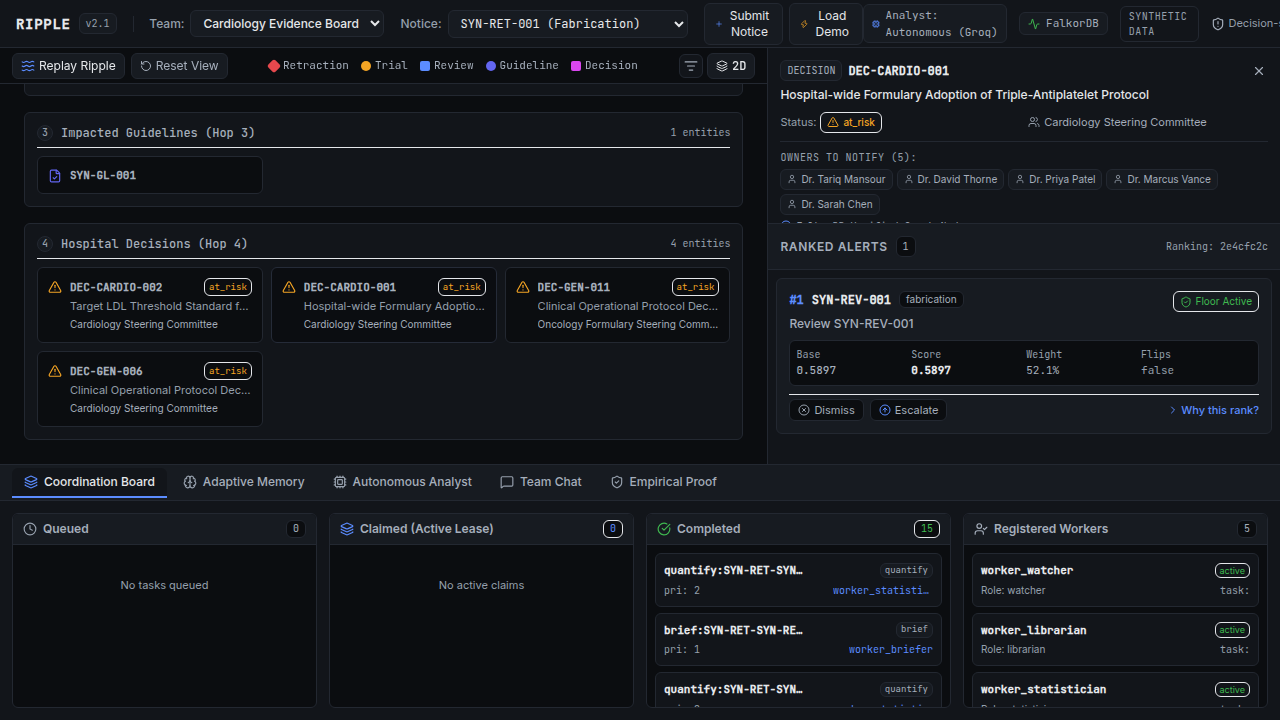
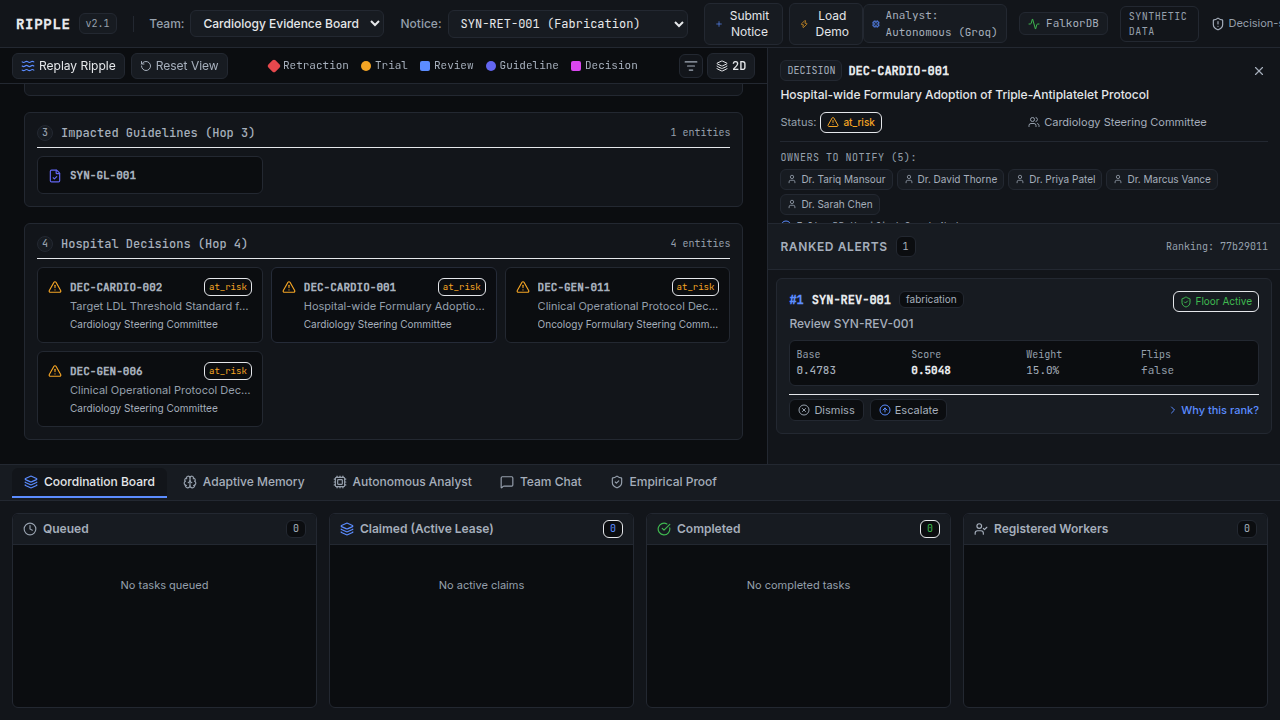
fix(demo): bind demo scenario impact directly to active retraction to prevent background task overwrite

diff --git a/api.py b/api.py
@@ -312,15 +312,8 @@ def load_demo_scenario(tenant: str, retraction_id: str = "SYN-RET-001"):
         })
         tr = tracer.handle({"retraction_id": adm_ret_id, "reason_category": "administrative"})
         for r in tr["affected_reviews"]:
-            stat.handle({"retraction_id": adm_ret_id, "review_id": r, "reason_category": "administrative"})
+            stat.handle({"retraction_id": retraction_id, "review_id": r, "reason_category": "administrative"})
         briefer.handle({"retraction_id": adm_ret_id})
-
-        # Also link impact to current retraction_id so they appear in current view
-        knowledge.graph.query(
-            "MATCH (imp:Impact {id: $imp_id}), (rev:Review {id: $rid}) "
-            "SET imp.retraction_id = $curr_ret_id",
-            {"imp_id": f"imp_{adm_ret_id}_{rid}", "rid": rid, "curr_ret_id": retraction_id}
-        )
         created_ids.append(rid)
 
     rankings_res = get_tenant_rankings(tenant, retraction_id)
